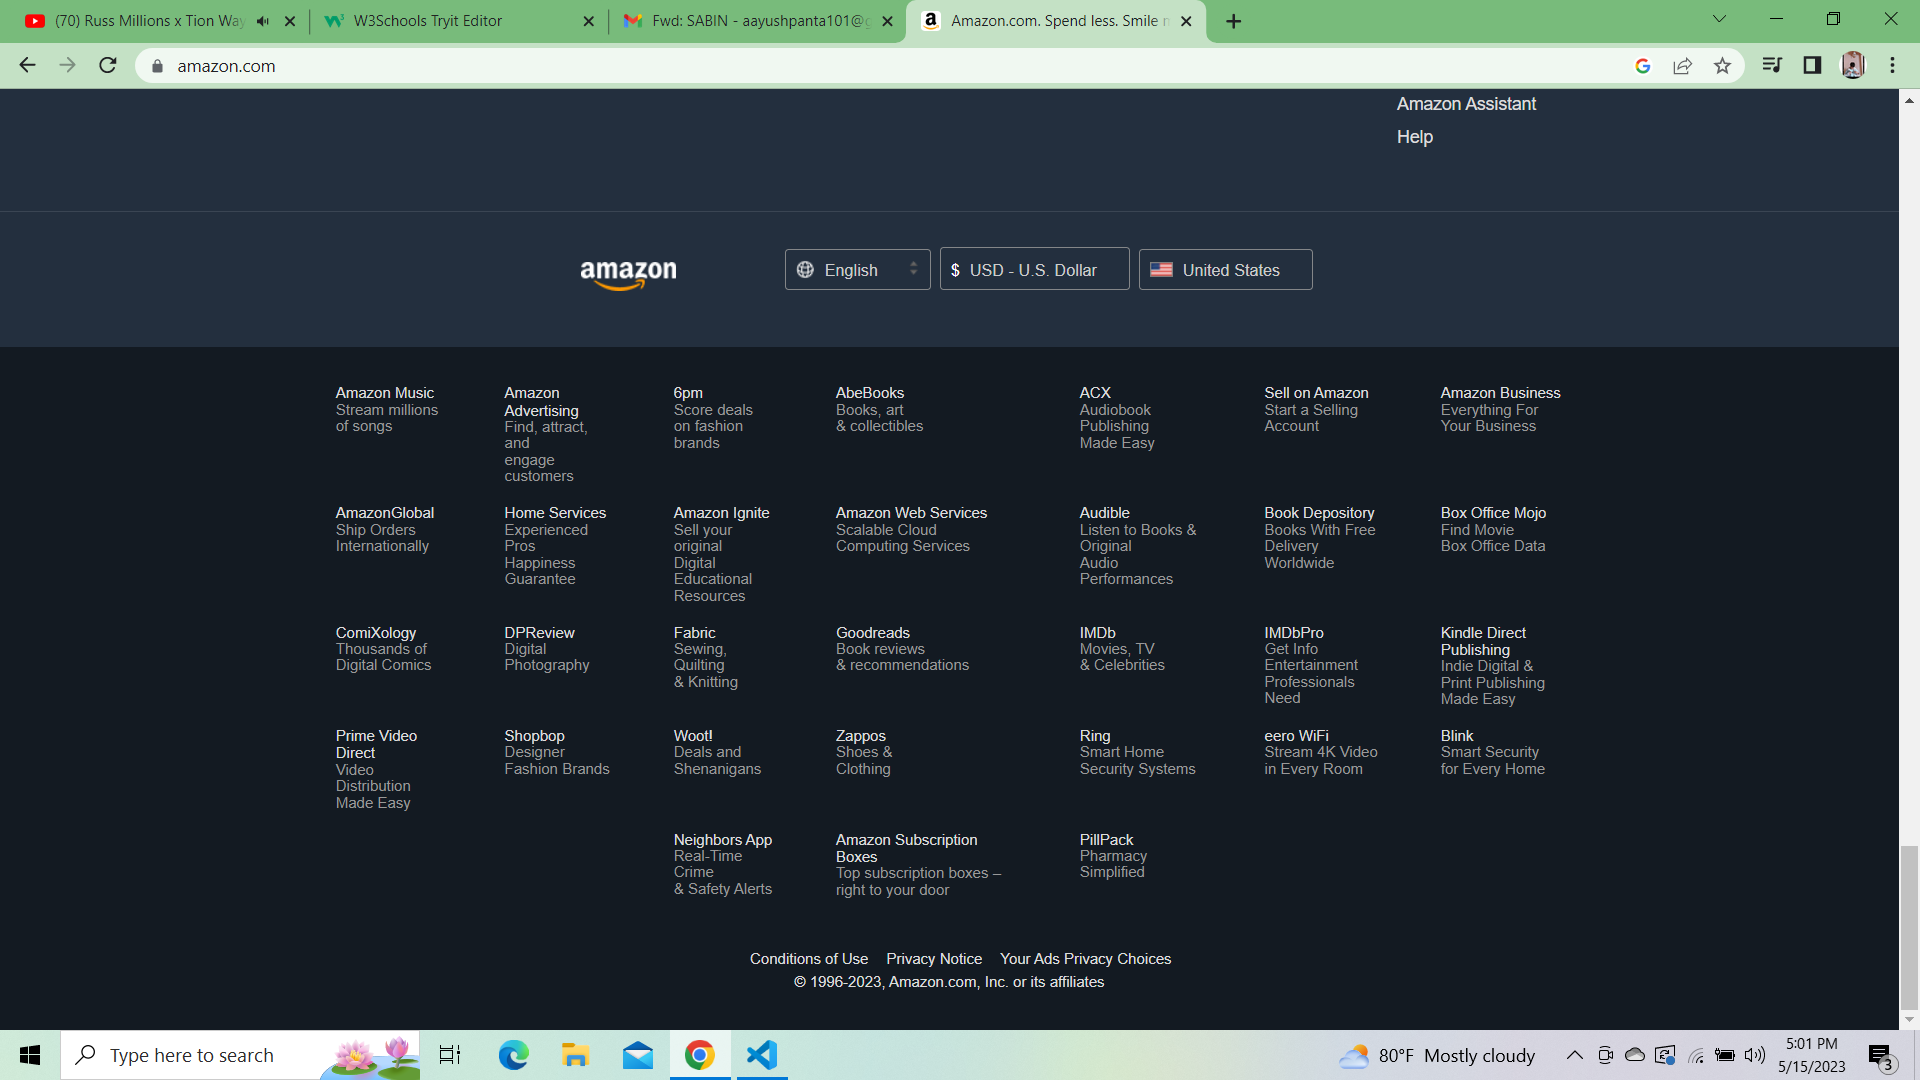
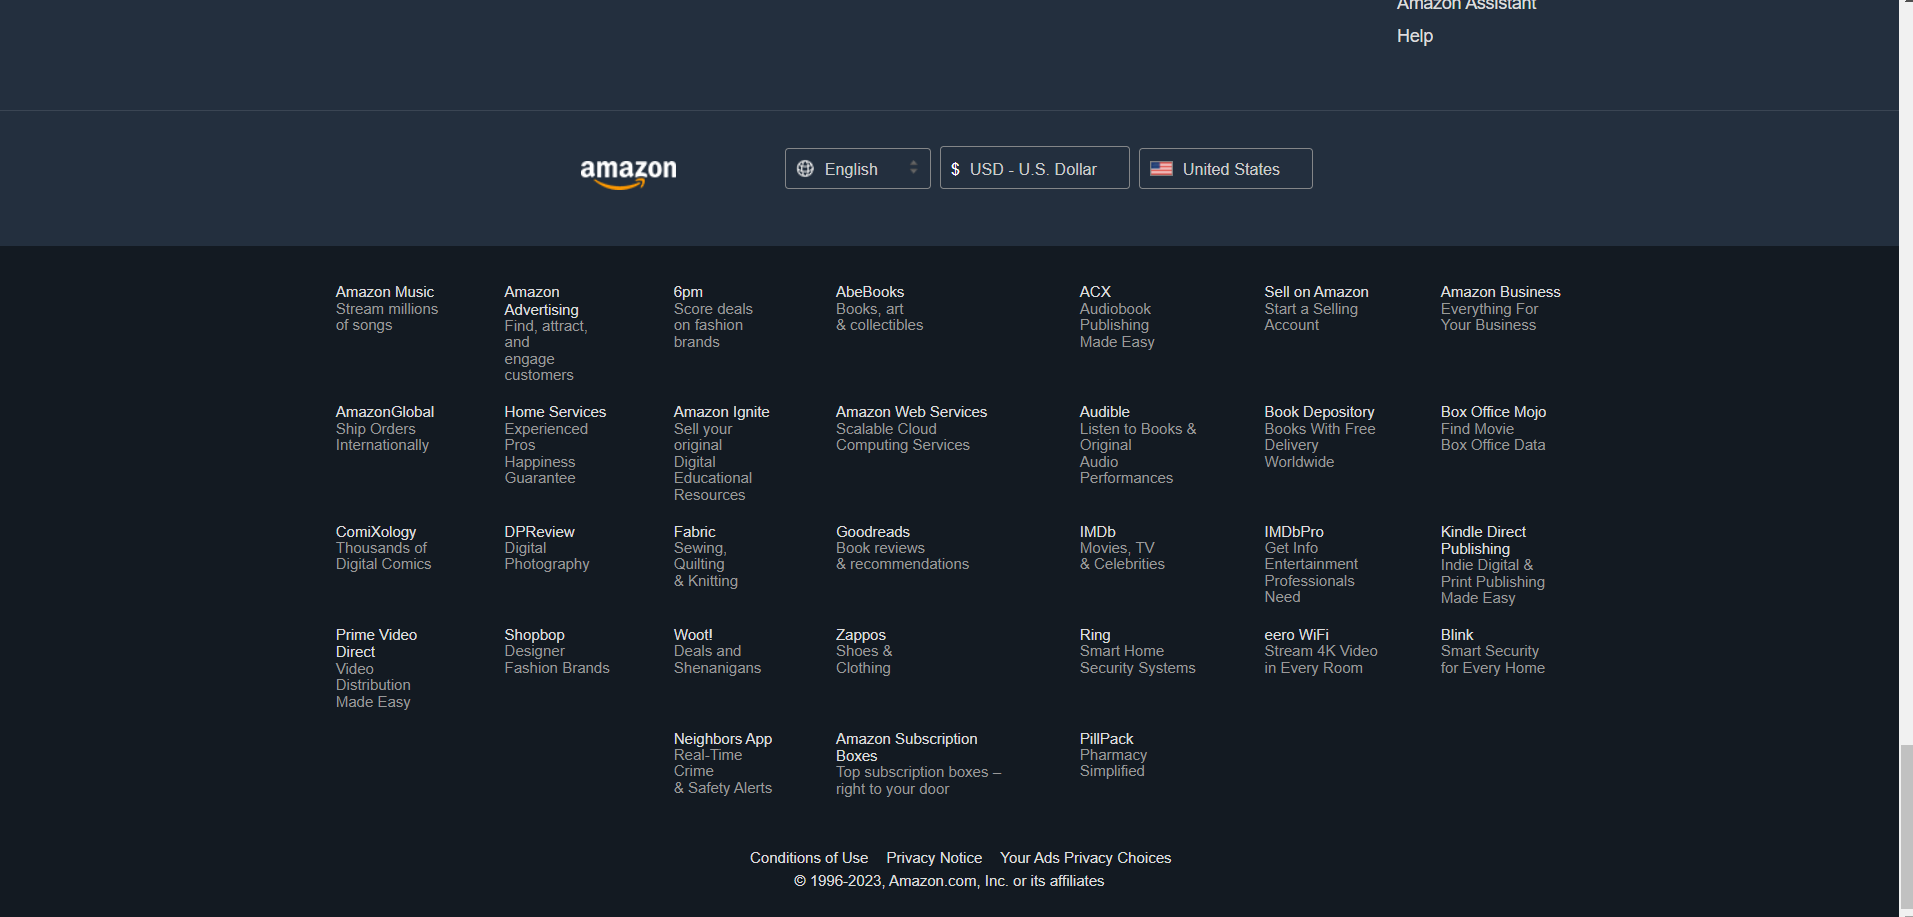
f

diff --git a/html/research.html b/html/research.html
@@ -311,7 +311,7 @@
     <div class="website">
         <h2>Amazon</h2>
         <a href="https://www.amazon.com/" target="_blank">
-            <img src="../img/flip.png.jpg" alt="Flipkart" width="900px" height="550px">
+            <img src="../img/amazon.jpg.png" alt="Amazon" width="900px" height="550px">
         </a>
     </div>
 </div>
